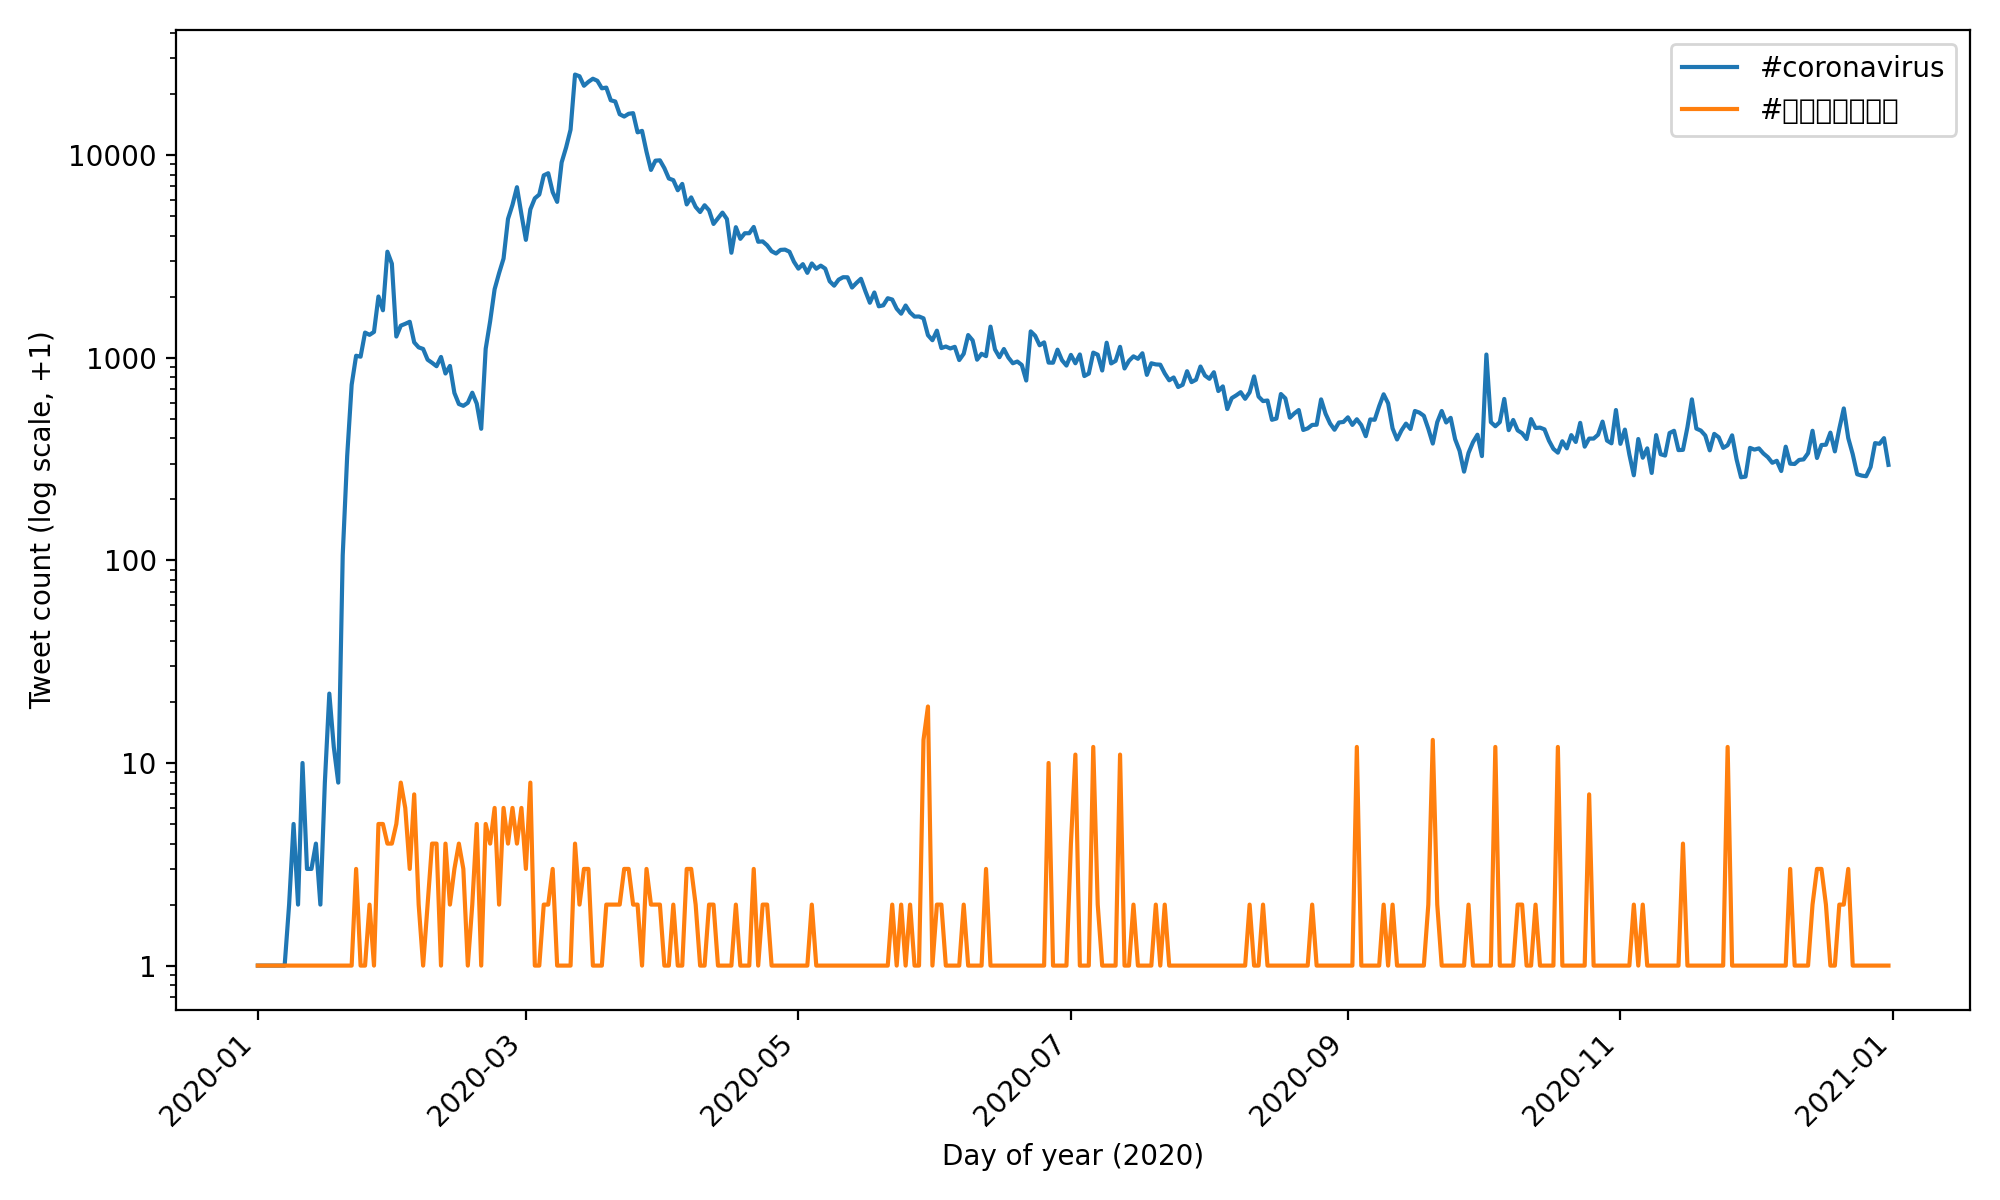
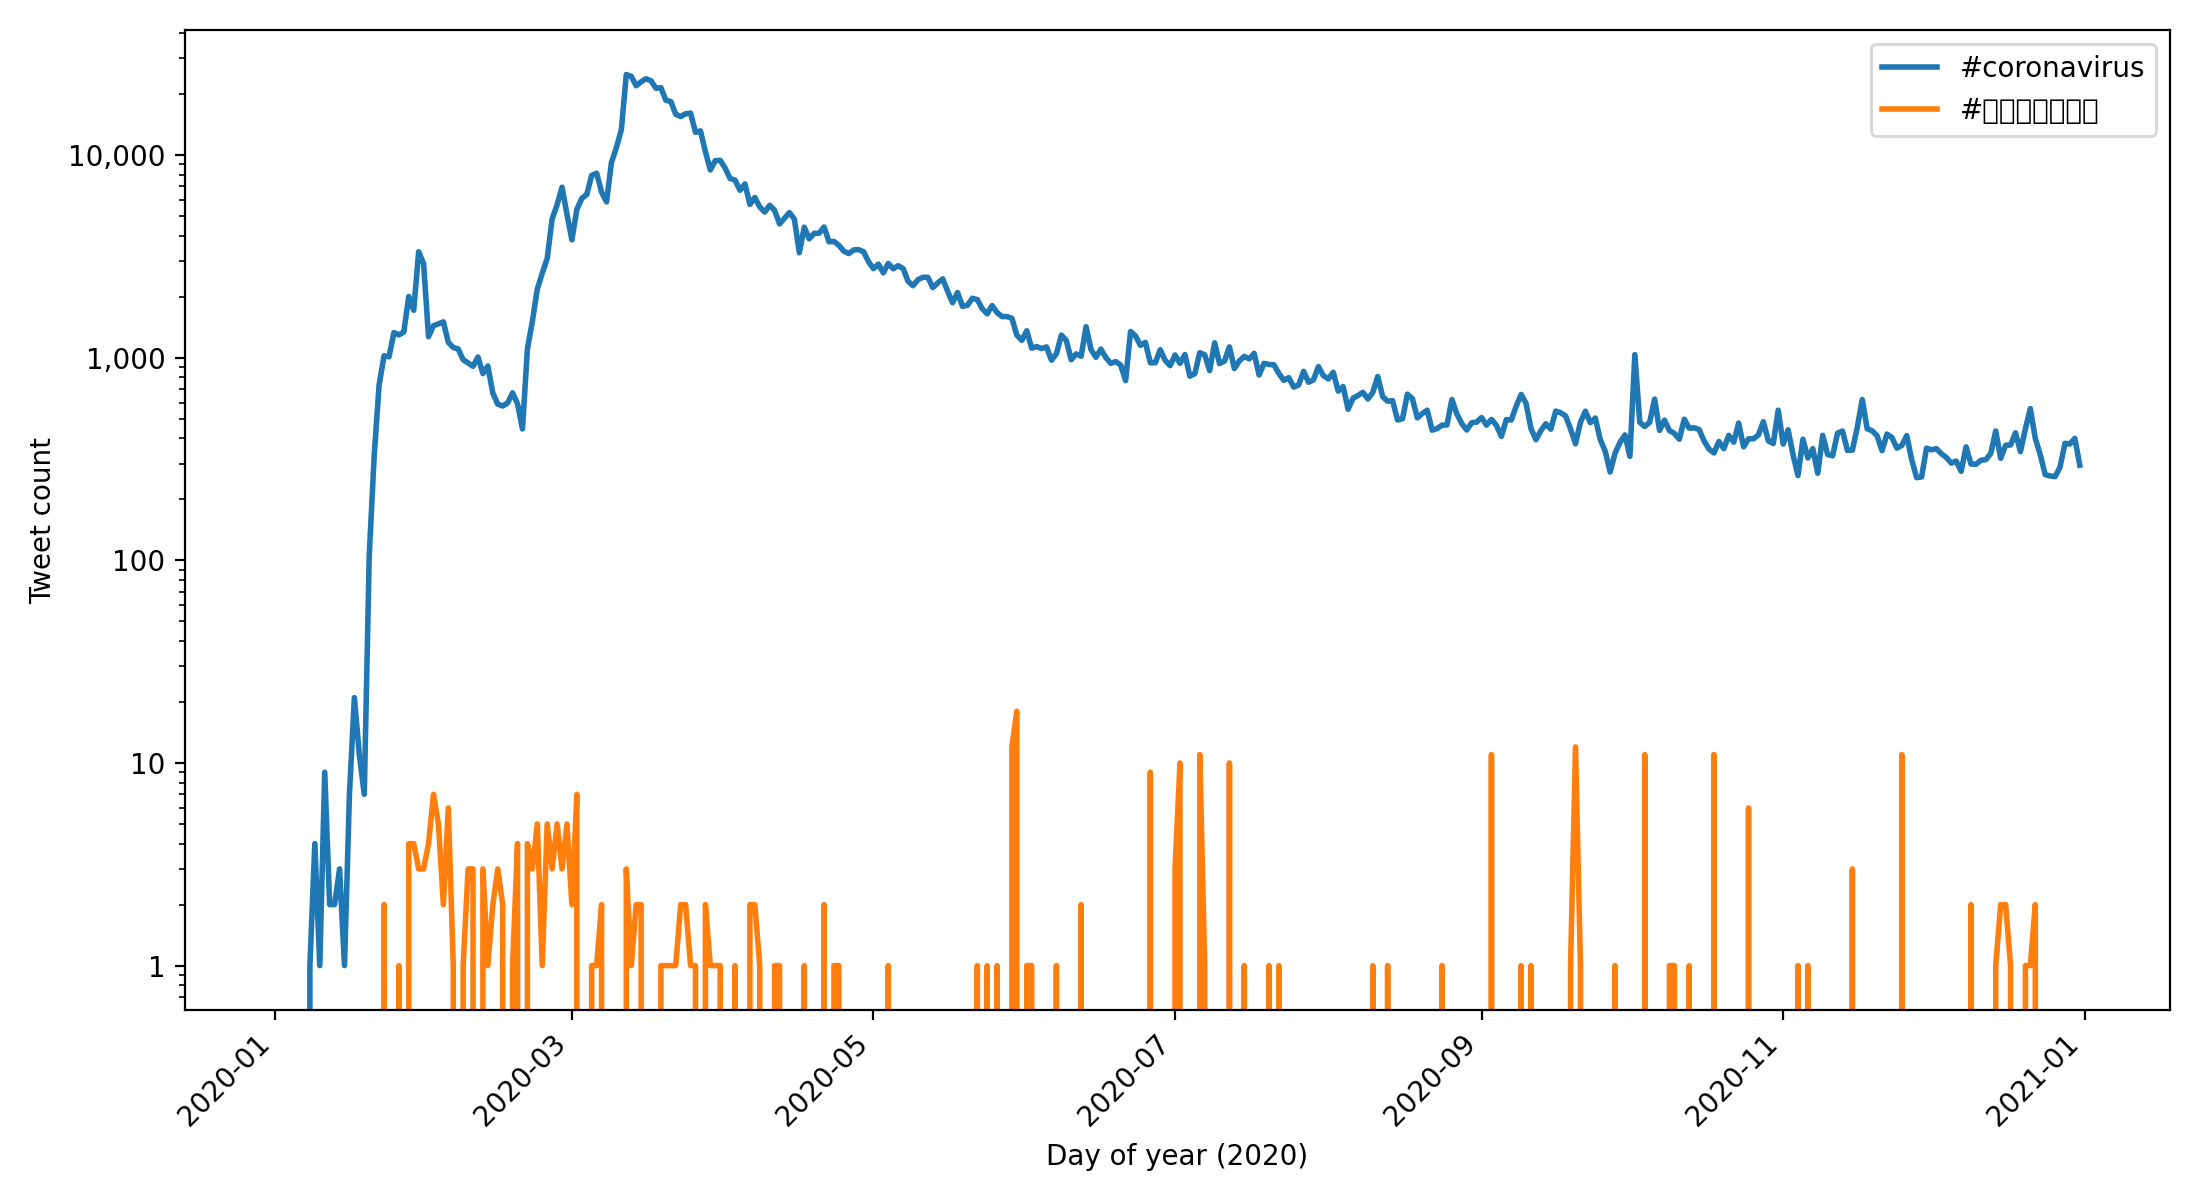
final plot

diff --git a/src/alternative_reduce.py b/src/alternative_reduce.py
@@ -9,6 +9,7 @@ import datetime
 import matplotlib
 matplotlib.use("Agg")
 import matplotlib.pyplot as plt
+import matplotlib.ticker as mtick
 
 
 def day_from_filename(path):
@@ -19,7 +20,7 @@ def day_from_filename(path):
 
 parser = argparse.ArgumentParser()
 parser.add_argument("hashtags", nargs="+")
-parser.add_argument("--glob", default="outputs/*.lang")
+parser.add_argument("--glob", default="outputs/geoTwitter20-*.zip.lang")
 parser.add_argument("--out", default="plots/hashtag_timeseries.png")
 args = parser.parse_args()
 
@@ -28,6 +29,7 @@ if not paths:
     raise SystemExit("No daily files found")
 
 dates = [day_from_filename(p) for p in paths]
+
 series = {h: [] for h in args.hashtags}
 
 for p in paths:
@@ -37,26 +39,28 @@ for p in paths:
     for h in args.hashtags:
         d = counts.get(h, {})
         if isinstance(d, dict):
-            series[h].append(sum(d.values()) + 1)
+            series[h].append(sum(d.values()))
         else:
             series[h].append(0)
 
 os.makedirs(os.path.dirname(args.out), exist_ok=True)
 
-plt.figure(figsize=(10,6))
+plt.figure(figsize=(11,6))
+
 for h in args.hashtags:
-    plt.plot(dates, series[h], label=h)
+    plt.plot(dates, series[h], linewidth=2, label=h)
 
 plt.xlabel("Day of year (2020)")
-plt.ylabel("Tweet count (log scale, +1)")
-plt.yscale("log")
-from matplotlib.ticker import ScalarFormatter
-plt.gca().yaxis.set_major_formatter(ScalarFormatter())
-plt.gca().ticklabel_format(style='plain', axis='y')
-plt.legend()
+plt.ylabel("Tweet count")
 
+ax = plt.gca()
+ax.set_yscale("log")
+ax.yaxis.set_major_formatter(mtick.FuncFormatter(lambda y, _: f"{int(y):,}" if y >= 1 else "0"))
+ax.yaxis.set_minor_formatter(mtick.NullFormatter())
+
+plt.legend()
 plt.xticks(rotation=45, ha="right")
 plt.tight_layout()
-plt.savefig(args.out, dpi=200)
 
+plt.savefig(args.out, dpi=200)
 print("saved", args.out)
